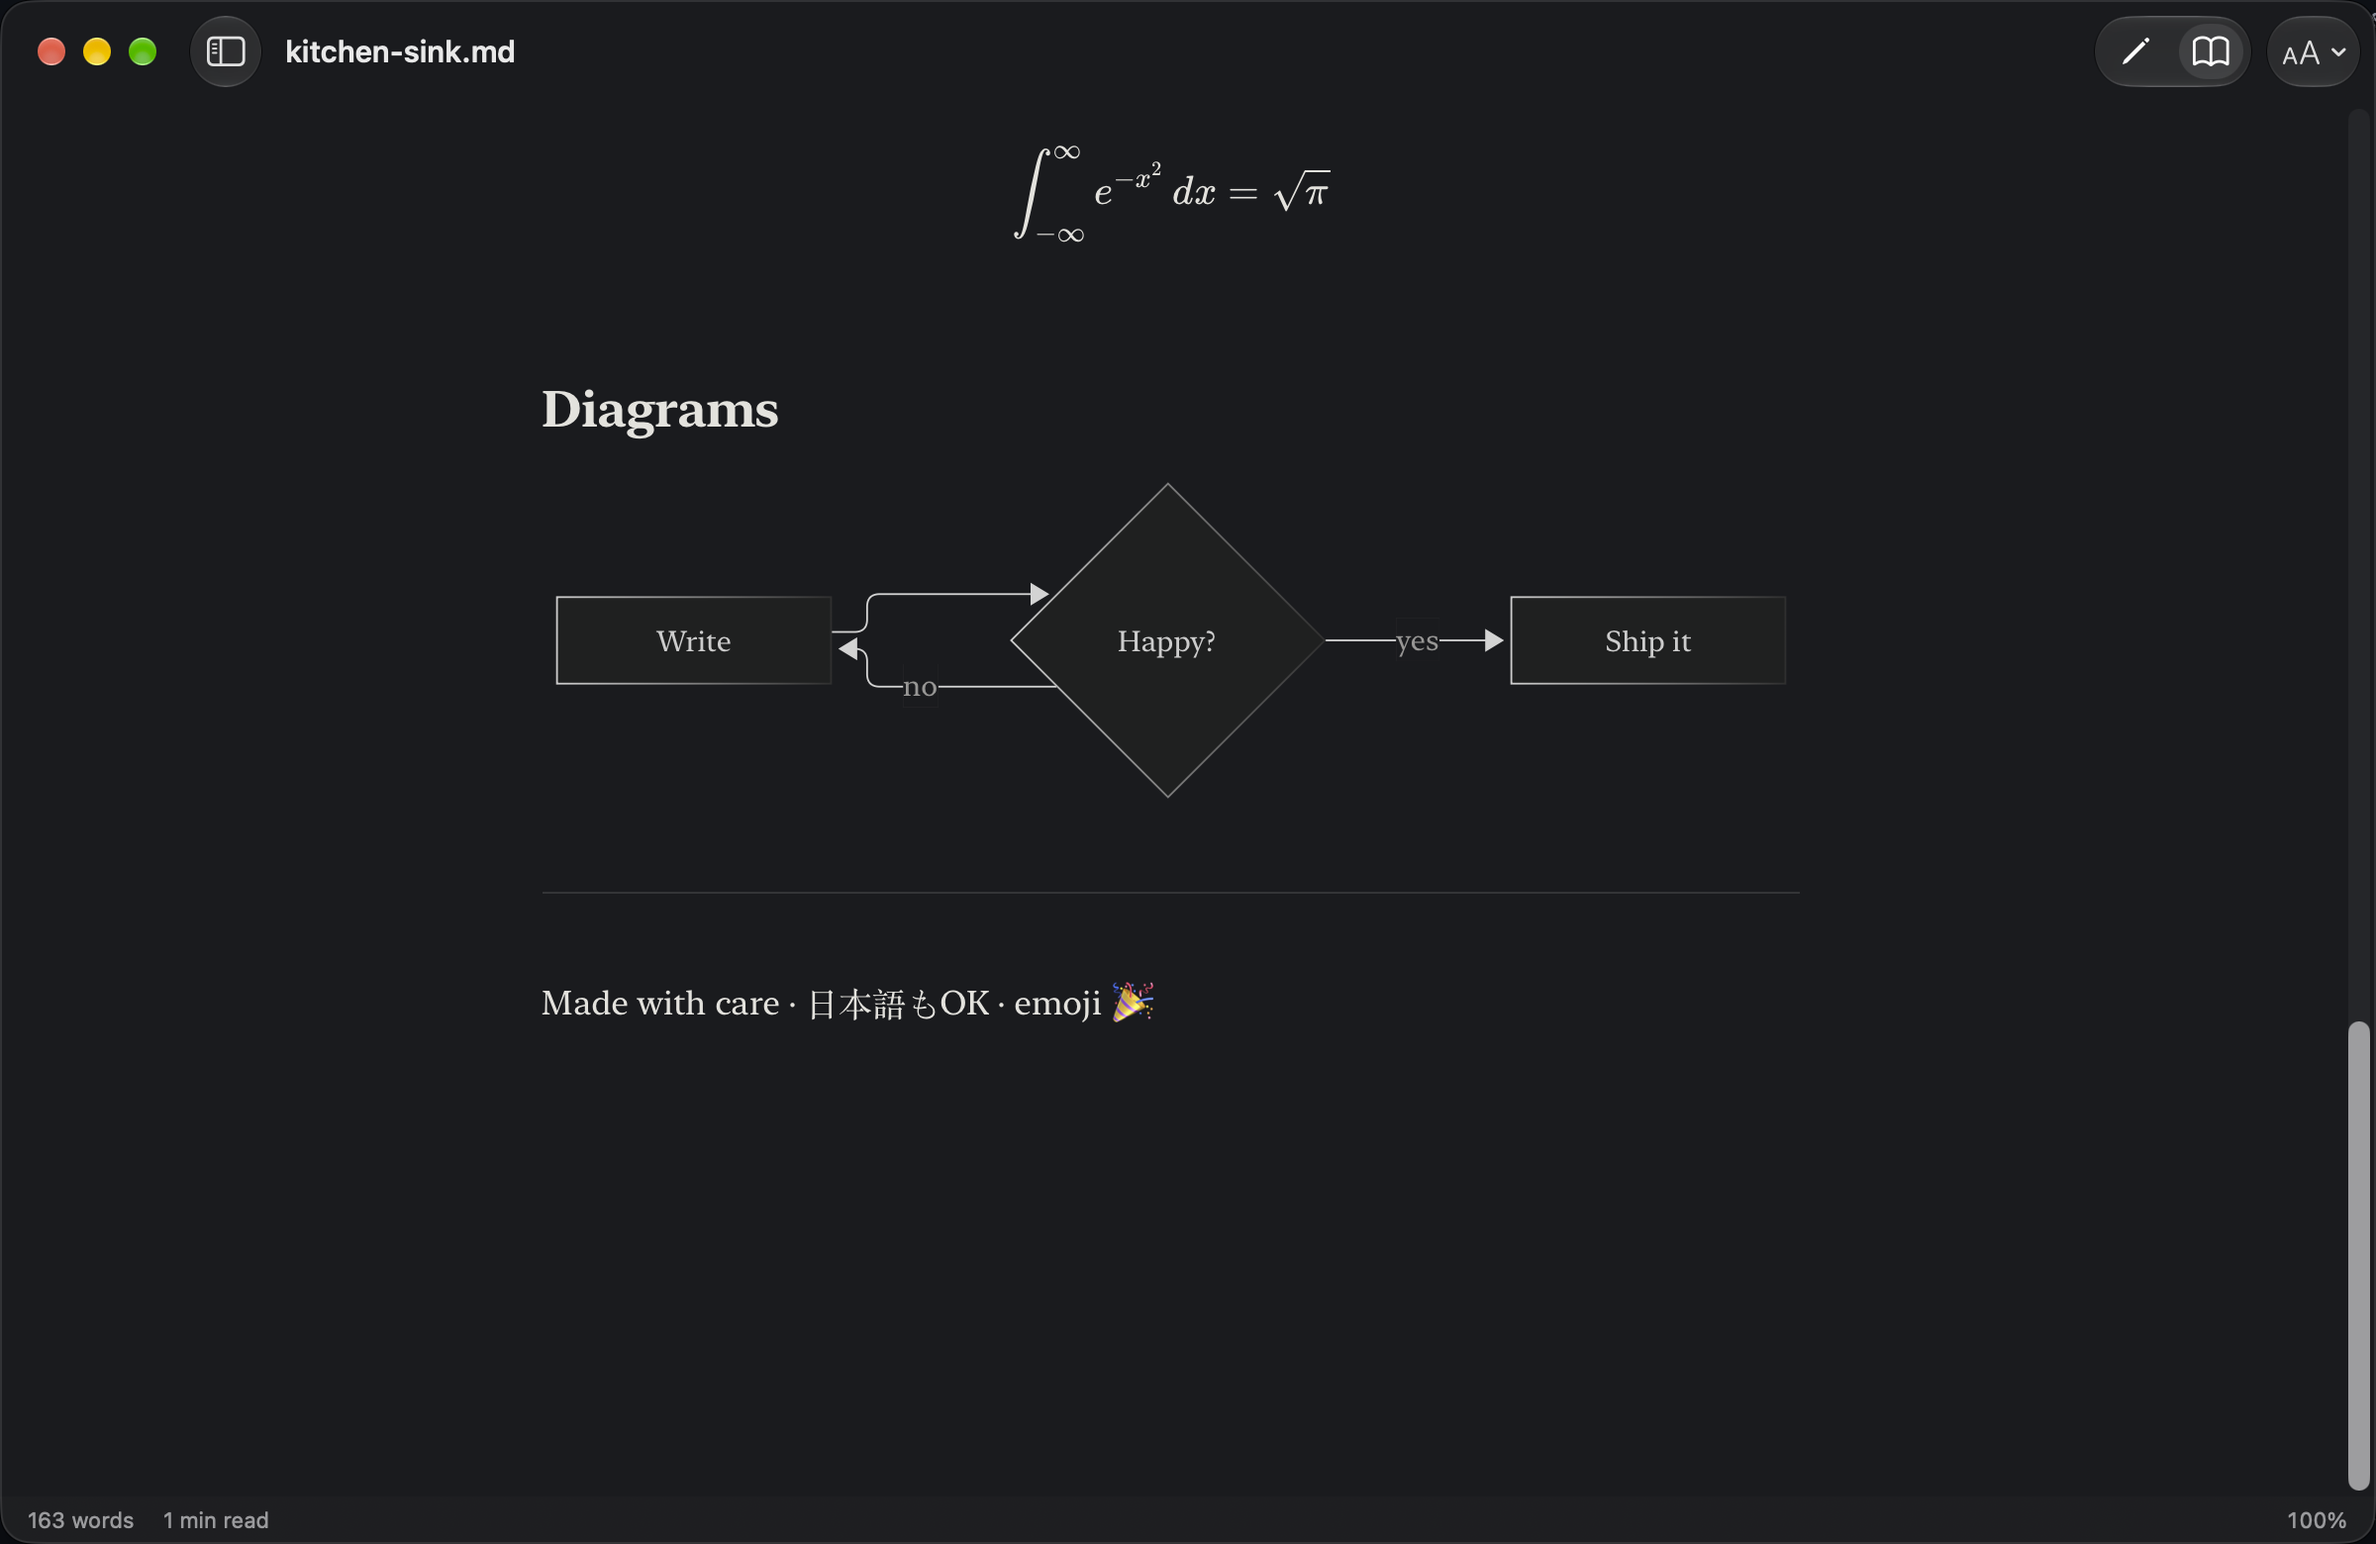
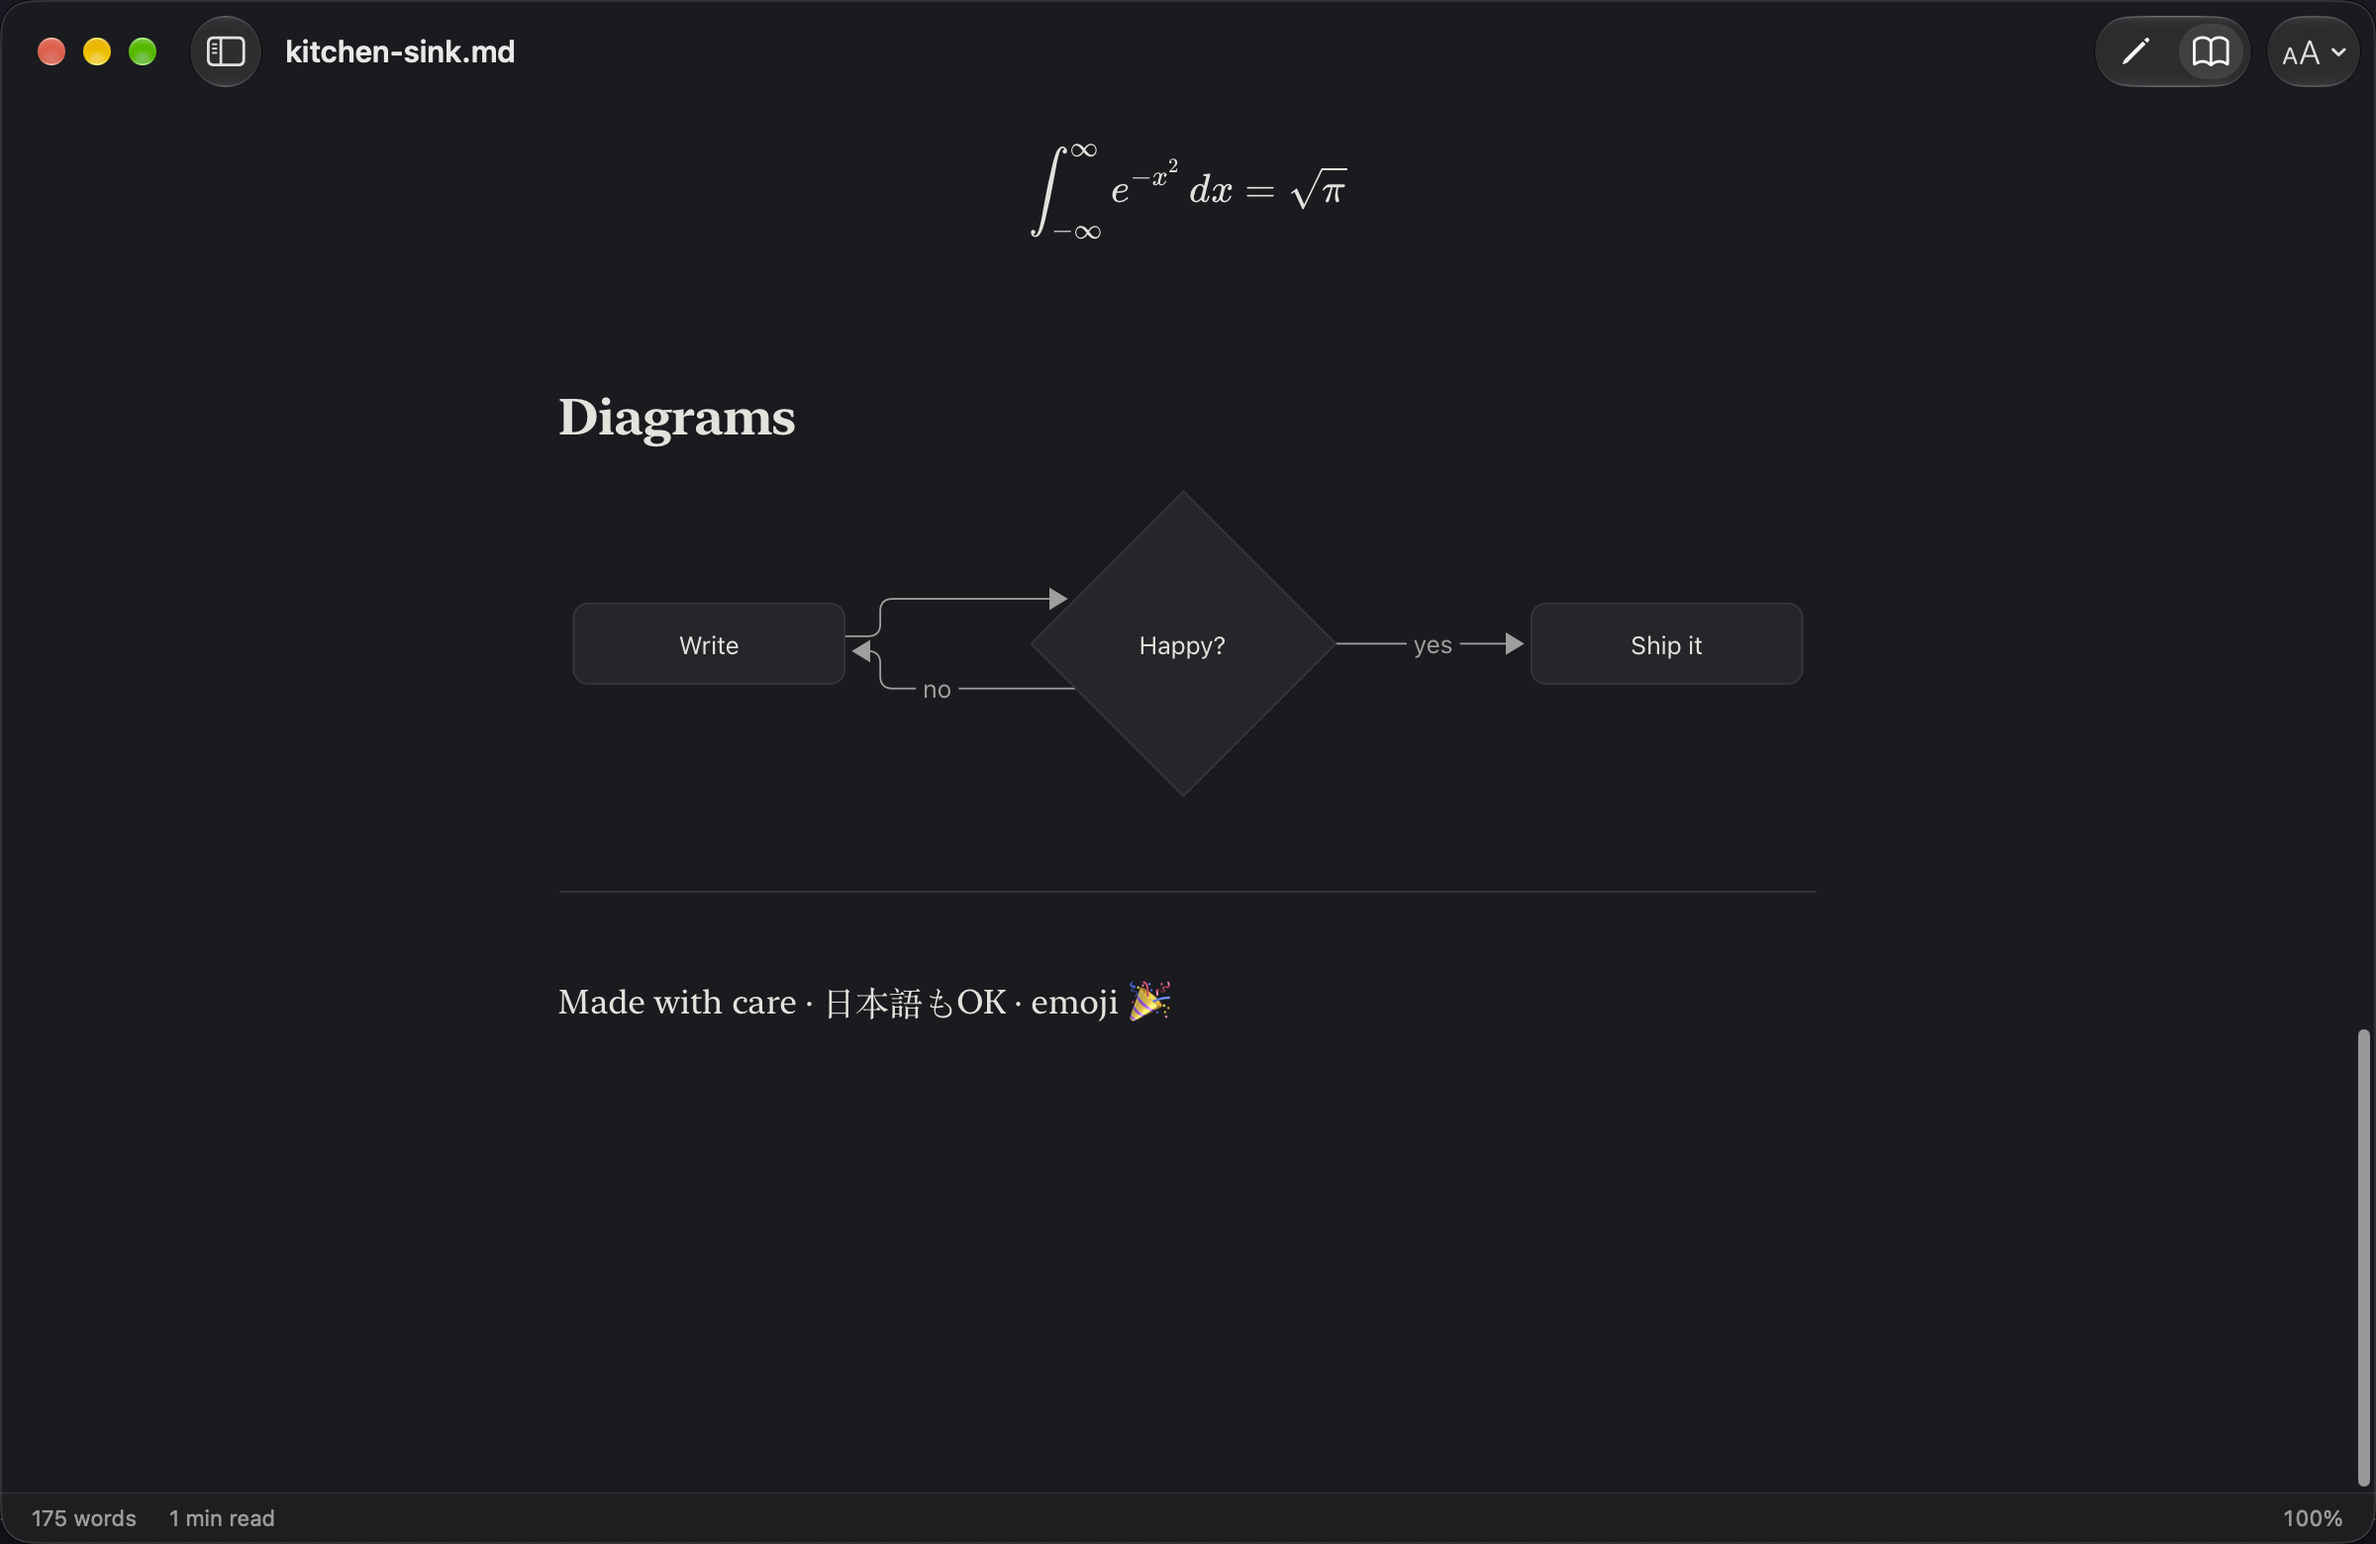
docs: refresh the README screenshots for the 0.3 look

diff --git a/docs/superpowers/plans/2026-10-15-ui-refinement.md b/docs/superpowers/plans/2026-10-15-ui-refinement.md
@@ -3,8 +3,7 @@
 > **For agentic workers:** REQUIRED SUB-SKILL: Use superpowers:subagent-driven-development (recommended) or
 > superpowers:executing-plans to implement this plan task-by-task. Steps use checkbox (`- [ ]`) syntax for tracking.
 
-**Status:** executed in this session; shipped in 0.3.0. Open boxes are deferred (README screenshots) or
-were covered differently (PDF export is checked by the export UI test, not by eye). Deviations are listed in the
+**Status:** executed in this session; shipped in 0.3.0. The open box was covered differently (PDF export is checked by the export UI test, not by eye). Deviations are listed in the
 spec's Outcome section.
 
 **Goal:** Refine MacMD's editor, Read mode and window chrome to one calm, consistent "editorial" design, without
@@ -553,7 +552,7 @@ final class DesignReviewUITests: XCTestCase {
   - the status bar hairline.
 
   Fix anything off and repeat. If the display is locked, stop and ask the user; don't skip the review.
-- [ ] **Step 3:** Refresh the README screenshots: run `testOpenEditAndRead` and copy `edit-light`, `read-dark` and
+- [x] **Step 3:** Refresh the README screenshots: run `testOpenEditAndRead` and copy `edit-light`, `read-dark` and
   `read-dark-2` into `docs/screenshots/`.
 - [x] **Step 4:** Commit: `git commit -m "test(ui): capture every theme for design review; refresh README screenshots"`.
 

diff --git a/docs/superpowers/specs/2026-10-15-ui-refinement-design.md b/docs/superpowers/specs/2026-10-15-ui-refinement-design.md
@@ -101,5 +101,4 @@ Shipped in 0.3.0. Where the result differs from this spec:
 - **Design review screenshots** come from CI (`DesignReviewUITests`, 1024×768), whose results are uploaded for
   pull requests.
 
-Deferred: editor heading spacing from the spacing scale; a spacing pass on the toolbar, Settings and About;
-refreshed README screenshots.
+Deferred: editor heading spacing from the spacing scale; a spacing pass on the toolbar, Settings and About.
